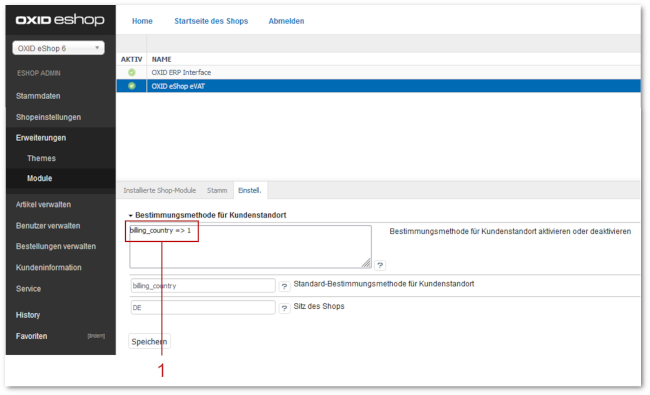
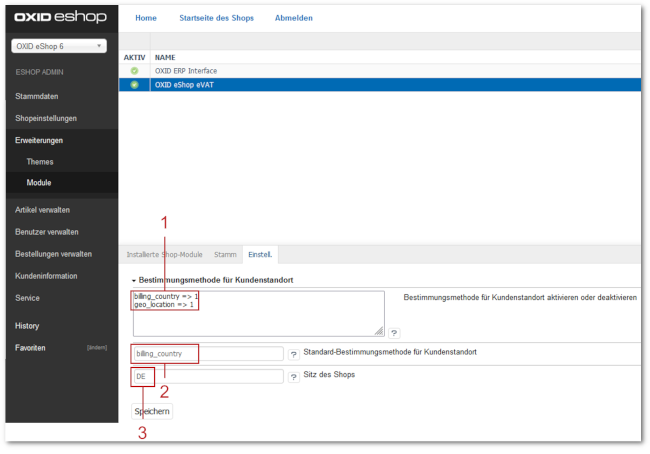
editing continued

diff --git a/konfiguration.rst b/konfiguration.rst
@@ -40,20 +40,16 @@ Prüfen Sie die hinterlegten Mehrwertsteuersätze und passen Sie sie bei Bedarf 
 .. attention::
    **Mehrwertsteuersätze als Shop-Betreiber pflegen**
 
-   Mehrwertsteuersätze sind für die Länder der Europäischen Union bereits vorbereitet. Die Mehrwertsteuersätze sind im Modul statisch hinterlegt.
+   Mehrwertsteuersätze sind für die Länder der Europäischen Union bereits vorbereitet.
 
-   .. todo: #HR: "Änderungen an den Werten müssen im Repository gepflegt werden." Betrieb: Wie pflege ich Änderungen im Repo? Wer macht es? -> das muss dann wohl OXID für das Modul übernehmen.
-             Im SHop mit aktiviertem Modul kann das aber der Shopbetreiber für seinen Shop selbst hinterlegen.
+   Die Mehrwertsteuersätze sind im Modul statisch hinterlegt, sie werden nicht automatisch angepasst.
 
    Wenn Sie das Modul aktivieren, wird geprüft, ob es bereits einen Eintrag für das Land gibt:
 
    * Wenn ja, dann wird nichts gemacht.
    * Wenn nein, dann wird der Wert aus der Liste genommen
 
-   .. todo: #HR: "Ist das Modul installiert, dann müssen Sie als Shop-Betreiber die Mehrwertsteuersätze pflegen." -- Meinen wir installiert oder aktiviert?
-         -> aktiviert, wenn nur installiert aber nicht aktiv darf das Modul ja gar nicht eingreifen
-
-   Ist das Modul installiert, dann müssen Sie als Shop-Betreiber die Mehrwertsteuersätze pflegen.
+   Ist das Modul aktiviert, dann müssen Sie als Shop-Betreiber die Mehrwertsteuersätze pflegen.
 
    Weitere Informationen finden Sie unter :ref:`betrieb:Mehrwertsteuersätze pflegen`.
 
@@ -97,12 +93,12 @@ Prüfen Sie die hinterlegten Mehrwertsteuersätze und passen Sie sie bei Bedarf 
 
 #. Speichern Sie Ihre Einstellungen.
 
-Artikel als elektronisches Produkt oder Dienstleistung markieren
-^^^^^^^^^^^^^^^^^^^^^^^^^^^^^^^^^^^^^^^^^^^^^^^^^^^^^^^^^^^^^^^^
+Artikel als elektronisches Produkt markieren und Mehrwertsteuersatz zuordnen
+^^^^^^^^^^^^^^^^^^^^^^^^^^^^^^^^^^^^^^^^^^^^^^^^^^^^^^^^^^^^^^^^^^^^^^^^^^^^
 
 Machen Sie Artikel, die zu den Telekommunikations-, Rundfunk-, Fernseh- und auf elektronischem Weg erbrachten Dienstleistungen zählen, als solche kenntlich.
 
-Alternativ: Markieren Sie alle Artikel einer Kategorie als elektronisches Produkt oder Dienstleistung (siehe :ref:`konfiguration:Kategorie als elektronisches Produkt oder Dienstleistung markieren`).
+Alternativ: Markieren Sie alle Artikel einer Kategorie als elektronisches Produkt oder Dienstleistung (siehe :ref:`konfiguration:Kategorie als elektronisches Produkt markieren und Mehrwertsteuersatz zuordnen`).
 
 .. note::
    **OXID eShop Enterprise Edition**
@@ -123,6 +119,15 @@ Alternativ: Markieren Sie alle Artikel einer Kategorie als elektronisches Produk
 #. Weisen Sie dem Artikel die gültigen Mehrwertsteuersätze für die einzelnen Länder zu.
    |br|
    Ein eBook hat beispielsweise im Vereinigten Königreich den Normalsatz, in Frankreich den ermäßigten Satz 1 (:ref:`oxdakb02`, Pos. 2).
+
+   .. attention::
+
+      **Konversion gefährdet**
+
+      Fehlt die Zuordnung des Mehrwertsteuersatzes für ein Land, muss der Kunde den betreffenden Artikel aus dem Waren korb entfernen.
+
+      In unserem Beispiel (:ref:`einfuehrung:Was im Fehlerfall passiert`) kann ein Kunde aus Österreich das eBook nicht kaufen und erhält eine entsprechende Meldung.
+
 #. Ergänzen Sie die Kundeninformationen zu den Mehrwertsteuersätzen.
 
    .. todo: #HR: Was meinen wir damit: "Ergänzen Sie die Kundeninformationen zu den Mehrwertsteuersätzen."
@@ -136,8 +141,8 @@ Alternativ: Markieren Sie alle Artikel einer Kategorie als elektronisches Produk
    Abb.: Mehrwertsteuersätze einem Artikel zuweisen
 
 
-Kategorie als elektronisches Produkt oder Dienstleistung markieren
-^^^^^^^^^^^^^^^^^^^^^^^^^^^^^^^^^^^^^^^^^^^^^^^^^^^^^^^^^^^^^^^^^^
+Kategorie als elektronisches Produkt markieren und Mehrwertsteuersatz zuordnen
+^^^^^^^^^^^^^^^^^^^^^^^^^^^^^^^^^^^^^^^^^^^^^^^^^^^^^^^^^^^^^^^^^^^^^^^^^^^^^^
 
 Markieren Sie alle Artikel einer Kategorie als elektronische Produkte oder Dienstleistungen.
 
@@ -155,6 +160,15 @@ Markieren Sie alle Artikel einer Kategorie als elektronische Produkte oder Diens
 #. Wählen Sie die Registerkarte :guilabel:`eVAT-Einstellungen`.
 #. Markieren Sie das Kontrollkästchen :guilabel:`Artikel in dieser Kategorie sind elektronische Dienstleistungen` (:ref:`oxdakb03`, Pos. 1).
 #. Weisen Sie dem Artikel die gültigen Mehrwertsteuersätze für die einzelnen Länder zu (:ref:`oxdakb03`, Pos. 2).
+
+   .. attention::
+
+      **Konversion gefährdet**
+
+      Fehlt die Zuordnung des Mehrwertsteuersatzes für ein Land, muss der Kunde den betreffenden Artikel aus dem Waren korb entfernen.
+
+      In unserem Beispiel (:ref:`einfuehrung:Was im Fehlerfall passiert`) kann ein Kunde aus Österreich das eBook nicht kaufen und erhält eine entsprechende Meldung.
+
 #. Speichern Sie Ihre Einstellungen.
 
 .. _oxdakb03:
@@ -179,31 +193,31 @@ Die EU-Durchführungsverordnung Nr. 1042/2013 schreibt vor, dass das Herkunftsla
 
 Der Kundenstandort muss durch mindestens zwei Prüfungen festgestellt werden. Die alleinige Angabe des Kunden im Bestellprozess reicht nicht aus, Sie müssen die Angabe des Kunden prüfen.
 
-.. todo: #VL: 1 (Angabe des Kunden) + 1 (Rechnungsadresse durch eVAT) = 2 (Methoden wie gesetzlich erfordert), korrekt? -- "Die alleinige Angabe des Kunden im Bestellprozess reicht nicht aus, Sie müssen die Angabe des Kunden prüfen."
+.. todo: #Joe prüfen: a) Ist die rechtliche Anforderung valide, b) erfülen wir sie?: "Die alleinige Angabe des Kunden im Bestellprozess reicht nicht aus, Sie müssen die Angabe des Kunden prüfen."
+    Der Kunde gibt im Bestellprozess seine Rechnungsadresse an. Das Modul prüft die Rechnungsadresse. Wir haben also nur 1 Bestimmungsmethode.
 
-.. todo: Shop alleine prüft Prüfung auf Produkt-Ebene und per Land countryVAT-Moduls und per User: Shop prüft VAT per Lieferadresse: wie ist :
-.. todo: #Joe fragen: Wenn ich bestelle ohne Anmelden, gebe ich meine *Rechnungsadresse* ein -- ist das dieselbe Adresse, die eVAT noch einmal auswertet? Dann würde 1 von 2 nötigen Methoden fehlen
-
-.. todo: #VL: gemeint: eVAT verfügt über eine ** EINZIGE" Regel,.. -- und das ist die Methode Rechnunngsadresse?
+.. todo: #Joe: Prüfen: Brauchen wir das countryVAT-Modul als 2. Methode, können wir es nutzen, um die rechtliche Anforderung zu erfüllen?
 
 Das Modul :productname:`OXID eShop eVAT` verwendet die Rechnungsadresse des Kunden, um den Kundenstandort zu bestimmen.
 
-Sie können bei Bedarf eigene Bestimmungsmethoden hinzuzufügen.
-
+Sie können bei Bedarf eigene Bestimmungsmethoden hinzuzufügen (siehe :ref:`erweiterung:Bestimmungsmethode für Kundenstandort hinzufügen`).
 
 
 |procedure|
 
 1. Wählen Sie :menuselection:`Erweiterungen --> Module`.
 #. Wählen Sie das Modul :guilabel:`OXID eShop eVAT` und wählen Sie die Registerkarte :guilabel:`Einstell.`.
-#. Stellen Sie unter :guilabel:`Bestimmungsmethode für Kundenstandort` sicher dass die Bestimmungsmethoden :guilabel:`Kundenstandort mittels Rechnungsadresse ermitteln` aktiviert ist.
+#. Stellen Sie unter :guilabel:`Bestimmungsmethode für Kundenstandort` sicher dass die Bestimmungsmethode :guilabel:`Kundenstandort mittels Rechnungsadresse ermitteln` aktiviert ist.
    |br|
-   Ordnen Sie dazu dem Parameter :technicalname:`billing_country` den Wert :technicalname:`1` zu (:ref:`oxdakb04`, Pos. 1).
+   Dazu tun Sie folgendes:
+
+   a. Stellen Sie sicher, dass dem Parameter :technicalname:`billing_country` der Wert :technicalname:`1` zugeordnet ist (:ref:`oxdakb04`, Pos. 1).
 
    .. code::
 
       billing_country => 1
 
+   b. Stellen Sie sicher, dass :code:`billing_country` als Standard-Bestimmungsmethode gewählt ist (:ref:`oxdakb04`, Pos. 2).
 
    .. _oxdakb04:
 
@@ -213,28 +227,13 @@ Sie können bei Bedarf eigene Bestimmungsmethoden hinzuzufügen.
 
          Abb.: Bestimmungsmethode konfigurieren
 
+   .. note::
+
+      Die Bestimmungsmethode Geolocation ist nicht imlementiert.
+
+      .. todo: #HR: Können wir Geolocation deaktivieren, so dass es nicht standardmäßig in dem Feld erscheint?
+
 #. Speichern Sie Ihre Einstellungen.
-
-.. todo:
-    .. note::
-    Die Bestimmungsmethode Geolocation bestimmt den Standort basierend auf der IP-Adresse des zugehörigen Endgerätes.
-    Die Geolocation ist derzeit nicht implementiert.
-
-.. todo: #VL: Ist rechtlich nicht klug, geplante Entwicklungen in der Doku zu erwähnen; daraus könnte ein Rechtsanspruch auf Implementierung abgeleitet werden. "Geolocation ist derzeit nur vorbereitet und muss noch implementiert werden": Was heißt dann "Das Modul eVAT verwendet zwei Bestimmungsmethoden, um den Kundenstandort zu bestimmen"?
-    #VL: Sind die EU-Anforderungen aktuell nicht erfüllt?, siehe Michael: "Sofern das noch fertig gebaut wird,  wäre die Anforderung der EU zwei Checks der Angaben des Kunden durchzuführen erfüllt." --
-    #VL: Oder hat der Shop eine Standardmethode zur Bestimmung, so dass Rechnungsadresse die erforderliche 2. Methode wäre?
-
-.. todo: #VL: geolocation vorerst nicht erwähnt
-
-.. todo: #VL: blenden wir vorerst aus:
-    #. Für den Fall, dass die Ergebnisse der Prüfungen einander widersprechen, legen Sie unter :guilabel:`Standardmethode für Kundenstandort` fest, welche Methode Vorrang haben soll (:ref:`oxdakb04`, Pos. 2).
-   |br|
-    Die Prüfung der Rechnungsadresse ist standardmäßig eingestellt.
-   |br|
-    Wenn Sie keine Bestimmungsmethode als Standard definieren oder die angegebene Bestimmungsmethode nicht gefunden wurde, wird die erste    Bestimmungsmethode verwendet, die kein leeres Land als Ergebnis zurückgibt.
-
-
-
 
 
 |result|
@@ -271,7 +270,7 @@ Es werden auch keine damit in Zusammenhang stehenden Meldungen ausgegeben.
 
 1. Wählen Sie :menuselection:`Erweiterungen --> Module`.
 #. Wählen Sie das Modul :guilabel:`eVAT` und wählen Sie die Registerkarte :guilabel:`Einstell.`.
-#. Tragen Sie im Feld :guilabel:`Sitz des Shops` den Ländercode für den Shop-Standort im ISO2-Format ein (:ref:`oxdakb04`, Pos. 2).
+#. Tragen Sie im Feld :guilabel:`Sitz des Shops` den Ländercode für den Shop-Standort im ISO2-Format ein (in unserem Beispiel :code:`de` für Deutschland: :ref:`oxdakb04`, Pos. 3).
 
 
 
@@ -280,44 +279,46 @@ PDF-Rechnung konfigurieren
 
 Wenn Sie in Ihrem OXID eShop :productname:`PDF-Rechnung` (siehe `github.com/OXIDprojects/pdf-invoice-module <https://github.com/OXIDprojects/pdf-invoice-module>`_) verwenden, dann stellen Sie sicher, dass die Reihenfolge der überladenen Klassen stimmt.
 
-.. todo: #HR: Was ist das auf EN: "overloaded" classes oder "extended" wie hier beschrieben: https://docs.oxid-esales.com/developer/en/latest/development/modules_components_themes/quality.html#extending-and-reusing-the-shop-functionality
-         #HR: Michael schreibt: "Das Wort "überschreiben" wäre vermutlich eher richtiger als "überladen". Beides ist jedoch geläufig."  -> wir reden von 'chain extend', wenn sich ein mMdul in die class chain reinhängt (virtuelle parent Klasse, class_alias).
-              renn Reihenfolge udnd überöadene Klassen in einem Zusammenhang erwähnt werden, dann ist bestimmt von 'chain extend' die Rede.
-
-.. todo: #VL: zu https://github.com/OXIDprojects/pdf-invoice-module: brauchen wir eine Doku?
-
 |procedure|
 
 1. Wählen Sie im Administrationsbereich :menuselection:`Erweiterungen --> Module`.
    |br|
    Auf der Registerkarte :guilabel:`Installierte Shop-Module` werden die überladenen Klassen aufgelistet.
-#. Stellen Sie sicher, dass unter :guilabel:`oxorder` das Modul :technicalname:`invoicepdf` vor dem Modul :technicalname:`oevattbe` platziert ist (wie in :ref:`oxdakb05`).
+#. Stellen Sie sicher, dass unter :guilabel:`OxidEsales\Eshop\Application\Model\Order` das Modul :technicalname:`invoicepdfoxorder` vor dem Modul :technicalname:`oevattbeoxorder` platziert ist (:ref:`oxdakb05`, Pos. 1).
    |br|
-   Ziehen Sie die Einträge mit der gedrückten Maustaste an die richtige Position.
+   Ziehen Sie dazu den Eintrag mit gedrückter Maustaste an die richtige Position.
 #. Speichern Sie Ihre Einstellungen.
 
 .. _oxdakb05:
 
 .. figure:: /media/screenshots/oxdakb05.png
    :scale: 100 %
-   :alt: Korrekte Reihenfolge der Module für die Klasse oxorder sicherstellen
+   :alt: Korrekte Reihenfolge der Module sicherstellen
 
-   Abb.: Korrekte Reihenfolge der Module für die Klasse oxorder sicherstellen
+   Abb.: Korrekte Reihenfolge der Module sicherstellen
 
 Kundeninformationen zu Mehrwertsteuersätzen ergänzen
 ----------------------------------------------------
 
 Informieren Sie Ihre Kunden über die verschiedenen Mehrwertsteuersätze.
 
-Ihre Kunden gelangen zu diesen Informationen über einen Link auf der Artikeldetailseite (siehe :ref:`einfuehrung:Informationen zur Mehrwertsteuer aus Kundensicht`).
+Ihre Kunden gelangen zu diesen Informationen über einen Link auf der Artikeldetailseite (siehe :ref:`einfuehrung:Informationen zur Mehrwertsteuer aus Kundensicht`, Pos. 2).
 
 |procedure|
 
-1. Wählen Sie im Administrationsbereich :menuselection:`Kundeninformationen `--> CMS-Seiten`.
+1. Wählen Sie im Administrationsbereich :menuselection:`Kundeninformationen --> CMS-Seiten`.
 #. Rufen Sie die Seite mit der ID :technicalname:`oxdeliveryinfo` auf.
-#. Fügen Sie Informationen bezüglich der speziellen Artikel und der neuen Berechnung der Mehrwertsteuer hinzu.
+#. Fügen Sie Informationen bezüglich der speziellen Artikel und der neuen Berechnung der Mehrwertsteuer hinzu (:ref:`oxdakb05a`).
+#. Speichern Sie Ihre Einstellungen.
 
-.. todo: Beispiel für solche Ergänzungen angeben
+
+.. _oxdakb05a:
+
+.. figure:: /media/screenshots/oxdakb05a.png
+   :scale: 100 %
+   :alt: Kundeninformation zur Mehrwertsteuer ergänzen
+
+   Abb.: Kundeninformation zur Mehrwertsteuer ergänzen
 
 
 Kompatibilität mit Zahlungsmodulen sicherstellen

diff --git a/betrieb.rst b/betrieb.rst
@@ -7,8 +7,6 @@ Nutzen Sie im laufenden Betrieb folgende Funktionen des Moduls :productname:`OXI
 * Umsatzsteuer-Identifikationsnummer anzeigen
 * Erweiterung der PDF-Rechnung nutzen
 
-.. todo: #HR: Reden wir einheitlich eher von USt oder von MWSt? -> Bei EU VAT directive 1042/2013 geht es um Mehrwertsteuer auf elektronsiche Produkte, also vermutlich MWSt.
-
 Kundenstandort in der Bestellung anzeigen
 -----------------------------------------
 
@@ -102,16 +100,27 @@ Eine Meldung informiert über das Land, dessen Mehrwertsteuersatz zur Berechnung
 Mehrwertsteuersätze pflegen
 ---------------------------
 
-.. todo: #HR: verifizieren:
 
-Die aktuellen Mehrwertsteuersätze der verschiedenen Länder sind im Modul statisch hinterlegt.
+Die aktuellen Mehrwertsteuersätze der verschiedenen Länder sind im Modul statisch hinterlegt. Sie werden nicht automatisch aktualisiert.
 
-Sobald Sie :productname:`OXID eShop eVAT` installiert haben, müssen Sie als Shopbetreiber die Mehrwertsteuersätze pflegen.
+Sobald Sie :productname:`OXID eShop eVAT` aktiviert haben, müssen Sie als Shopbetreiber die Mehrwertsteuersätze pflegen.
 
-.. todo: #HR: Wie halte ich mich über Änderungen auf dem laufenden? -> gibt sicher eine Möglichkeit, einen Infoservice zu abonnieren
-         #HR: Wie pflege ich die Mehrwertsteuersätze? -> Shop admin -> MasterSettings -> Countries -> Country VAT rates (bei aktiviertem Modul)
-         #HR: Meinen wir installiert oder aktiviert? -> In der Datenbank landen die Informationen momentan bei der ersten Modulaktivierung
+.. tip::
 
+   Um sich über mögliche Änderungen der Mehrwertsteuersätze auf dem Laufenden zu halten, abonnieren Sie einen Informationsservice.
+
+|prerequisites|
+
+Sie haben beim Konfigurieren sichergestellt, dass unter :menuselection:`Artikel verwalten --> Artikel --> <elektronisch erbrachte Dienstleistung> --> eVAT-Einstellungen` jedem betreffenden Artikel der für das jeweilige Land zutrefende Mehrwertsteuersatz zugeordnet ist.
+
+Weitere Informationen finden Sie unter
+
+* :ref:`konfiguration:Artikel als elektronisches Produkt markieren und Mehrwertsteuersatz zuordnen`
+* :ref:`konfiguration:Kategorie als elektronisches Produkt markieren und Mehrwertsteuersatz zuordnen`
+
+|procedure|
+
+Pflegen Sie die Mehrwertsteuersätze unter :menuselection:`Stammdaten --> Länder --> <Land> --> MwSt.-Sätze`.
 
 
 

diff --git a/einfuehrung.rst b/einfuehrung.rst
@@ -72,19 +72,28 @@ Bei jeder Änderung des Landes wird die Mehrwertsteuer neu berechnet und die Mel
 
    Abb.: Bestellschritt 1 mit Hinweis auf Kundenstandort und MwSt.-Berechnung
 
+Was im Fehlerfall passiert
+^^^^^^^^^^^^^^^^^^^^^^^^^^
 
+Kommt ein Benutzer aus einem EU-Land, das Sie nicht für die Berechnung der Mehrwertsteuer für elektronische Dienstleistungen konfiguriert haben, erscheint eine Fehlermeldung.
 
-Kommt ein Benutzer aus einem EU-Land, das nicht für die neue Berechnung der Mehrwertsteuer konfiguriert ist, erscheint eine Meldung (:ref:`oxdaka04`). Die Bestellung kann dennoch fortgesetzt werden.
+Der Kunde wird aufgefordert den Artikel aus dem Warenkorb entfernen (:ref:`oxdaka04`, Pos. 1).
 
-.. todo: #HR: Ich kann keine Fehlermeldung generieren: wenn eVAT nicht aktiv, kommt gar nichts; wenn aktiv: was heißt dann "das nicht für die neue Berechnung der Mehrwertsteuer konfiguriert ist"?
+Grund: Die Mehrwertsteuer lässt sich nicht bestimmen  (:ref:`oxdaka04`, Pos. 2).
+
+Um den Fehlerfall zu vermeiden, folgen Sie den Anweisungen unter
+
+* :ref:`konfiguration:Artikel als elektronisches Produkt markieren und Mehrwertsteuersatz zuordnen`
+* :ref:`konfiguration:Kategorie als elektronisches Produkt markieren und Mehrwertsteuersatz zuordnen`
+
 
 .. _oxdaka04:
 
-.. figure:: /media/screenshots/oxdaka04png
+.. figure:: /media/screenshots/oxdaka04.png
    :scale: 100 %
-   :alt: Bestellschritt 1 mit Hinweis auf Kundenstandort und MwSt.-Berechnung
+   :alt: Ermittlung der Mehrwertsteuer Warenkorbübersicht fehlgeschlagen
 
-   Abb.: Bestellschritt 1 mit Hinweis auf Kundenstandort und MwSt.-Berechnung
+   Abb.: Ermittlung der Mehrwertsteuer Warenkorbübersicht fehlgeschlagen
 
 
 Kompatibilität mit Zahlungsmodulen
@@ -127,7 +136,7 @@ Ihre Vorteile
   * die Bestimmung des Kundenstandortes nach definierten Bestimmungsmethoden
   * die Protokollierung des Kundenstandortes bei Bestellungen von elektronischen Produkten oder Dienstleistungen
   * die Speicherung der USt-ID-Nummer mit Datum und Uhrzeit als Nachweis steuerpflichtiger Kunden
-* Erweitern Sie :productname:`OXID eShop eVAT` bei Bedarf um eigene Bestimmungsmethoden
+* Erweitern Sie :productname:`OXID eShop eVAT` bei Bedarf um eigene Bestimmungsmethoden.
 
 
 
